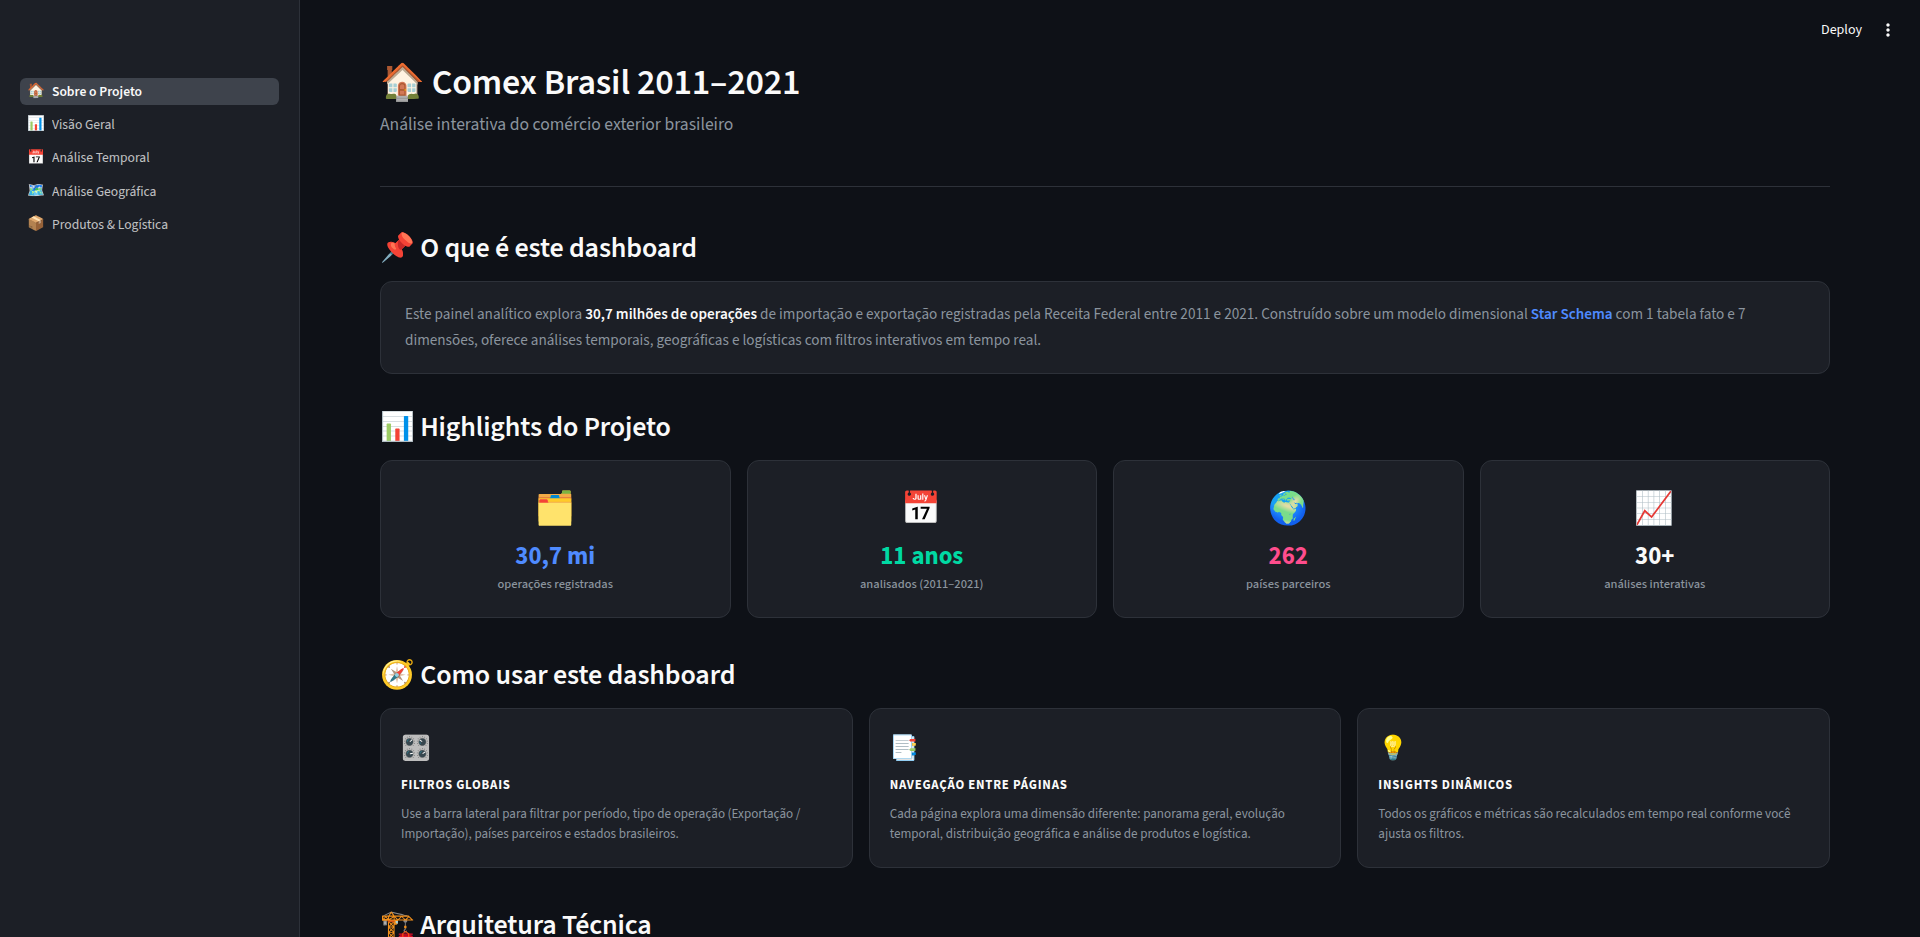
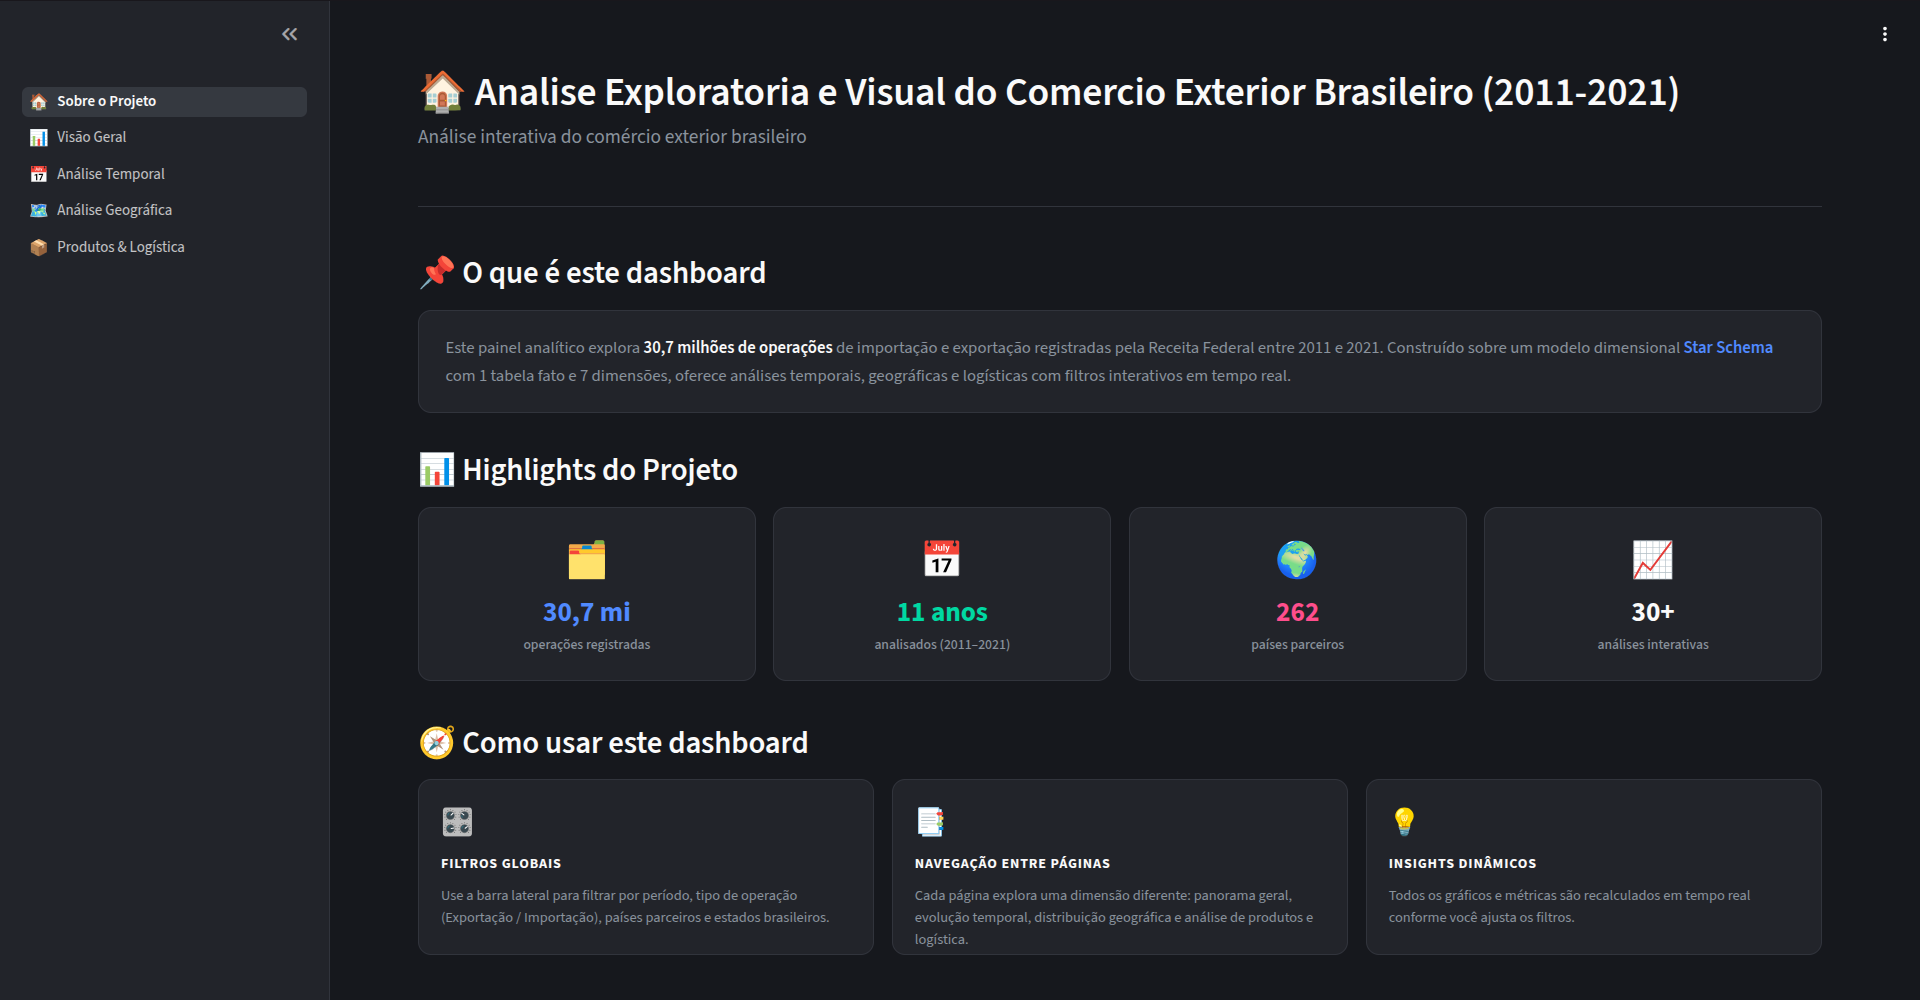
Atualização

diff --git a/dashboard/app.py b/dashboard/app.py
@@ -6,7 +6,11 @@ Define page config, CSS global e navegação multi-página.
 import streamlit as st
 from config import PAGE_CONFIG, COLORS
 
-st.set_page_config(**PAGE_CONFIG)
+st.set_page_config(**{
+    **PAGE_CONFIG,
+    "page_title": "Analise Exploratoria e Visual do Comercio Exterior Brasileiro",
+    "page_icon":  "🇧🇷",
+})
 
 # ── CSS global ─────────────────────────────────────────────────────────────────
 # Ajustes finos sobre o tema dark do Streamlit

diff --git a/dashboard/pages/0_sobre_o_projeto.py b/dashboard/pages/0_sobre_o_projeto.py
@@ -2,7 +2,7 @@
 import streamlit as st
 from config import COLORS
 
-st.markdown("## 🏠 Comex Brasil 2011–2021")
+st.markdown("## 🏠 Analise Exploratoria e Visual do Comercio Exterior Brasileiro (2011-2021)")
 st.markdown(
     f"<p style='color:{COLORS['text_sec']};font-size:1.1rem;margin-top:-10px'>"
     "Análise interativa do comércio exterior brasileiro"
